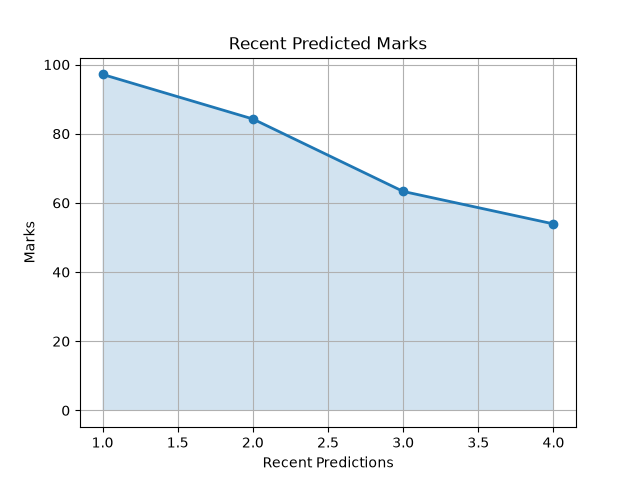
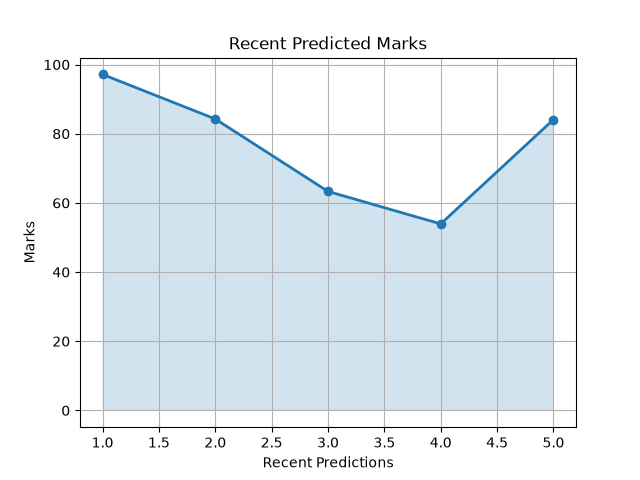
Implement SQLite dashboard statistics and CSV export

diff --git a/app.py b/app.py
@@ -8,6 +8,7 @@ matplotlib.use("Agg")
 import matplotlib.pyplot as plt
 import os
 import math
+import io
 
 from database import(
      get_connection,
@@ -16,7 +17,8 @@ from database import(
      get_predictions,
      search_predictions,
      get_predictions_paginated,
-     count_predictions
+     count_predictions,
+     get_statistics
 )
 
 from datetime import datetime
@@ -160,8 +162,9 @@ def home():
             search,
             performance_filter
         )
-        highest_marks = round(history_df["predicted_marks"].max(), 2)
-        average_marks = round(history_df["predicted_marks"].mean(), 2)
+        stats=get_statistics()
+        highest_marks = round(stats["highest"]or 0, 2)
+        average_marks = round(stats["average"]or 0, 2)
 
 
         
@@ -243,14 +246,24 @@ def clear_history():
 
 @app.route("/download_history")
 def download_history():
+    history = get_predictions()
+    if not history:
+        return "No history available."
 
-    if os.path.exists("prediction_history.csv"):
-        return send_file(
-            "prediction_history.csv",
-            as_attachment=True
-        )
+    df = pd.DataFrame([dict(row) for row in history])
 
-    return "No history available."
+    output = io.StringIO()
+
+    df.to_csv(output, index=False)
+
+    output.seek(0)
+
+    return send_file(
+        io.BytesIO(output.getvalue().encode()),
+        mimetype="text/csv",
+        as_attachment=True,
+        download_name="prediction_history.csv"
+    )
 
 
 if __name__ == "__main__":

diff --git a/database.py b/database.py
@@ -203,6 +203,20 @@ def count_predictions(search="", performance_filter=""):
 
     return total
 
+def get_statistics():
+    conn = get_connection()
+    stats = conn.execute("""
+        SELECT
+            COUNT(*) AS total,
+            MAX(predicted_marks) AS highest,
+            AVG(predicted_marks) AS average
+        FROM predictions
+    """).fetchone()
+
+    conn.close()
+
+    return dict(stats)
+
 
 if __name__ == "__main__":
     create_table()
